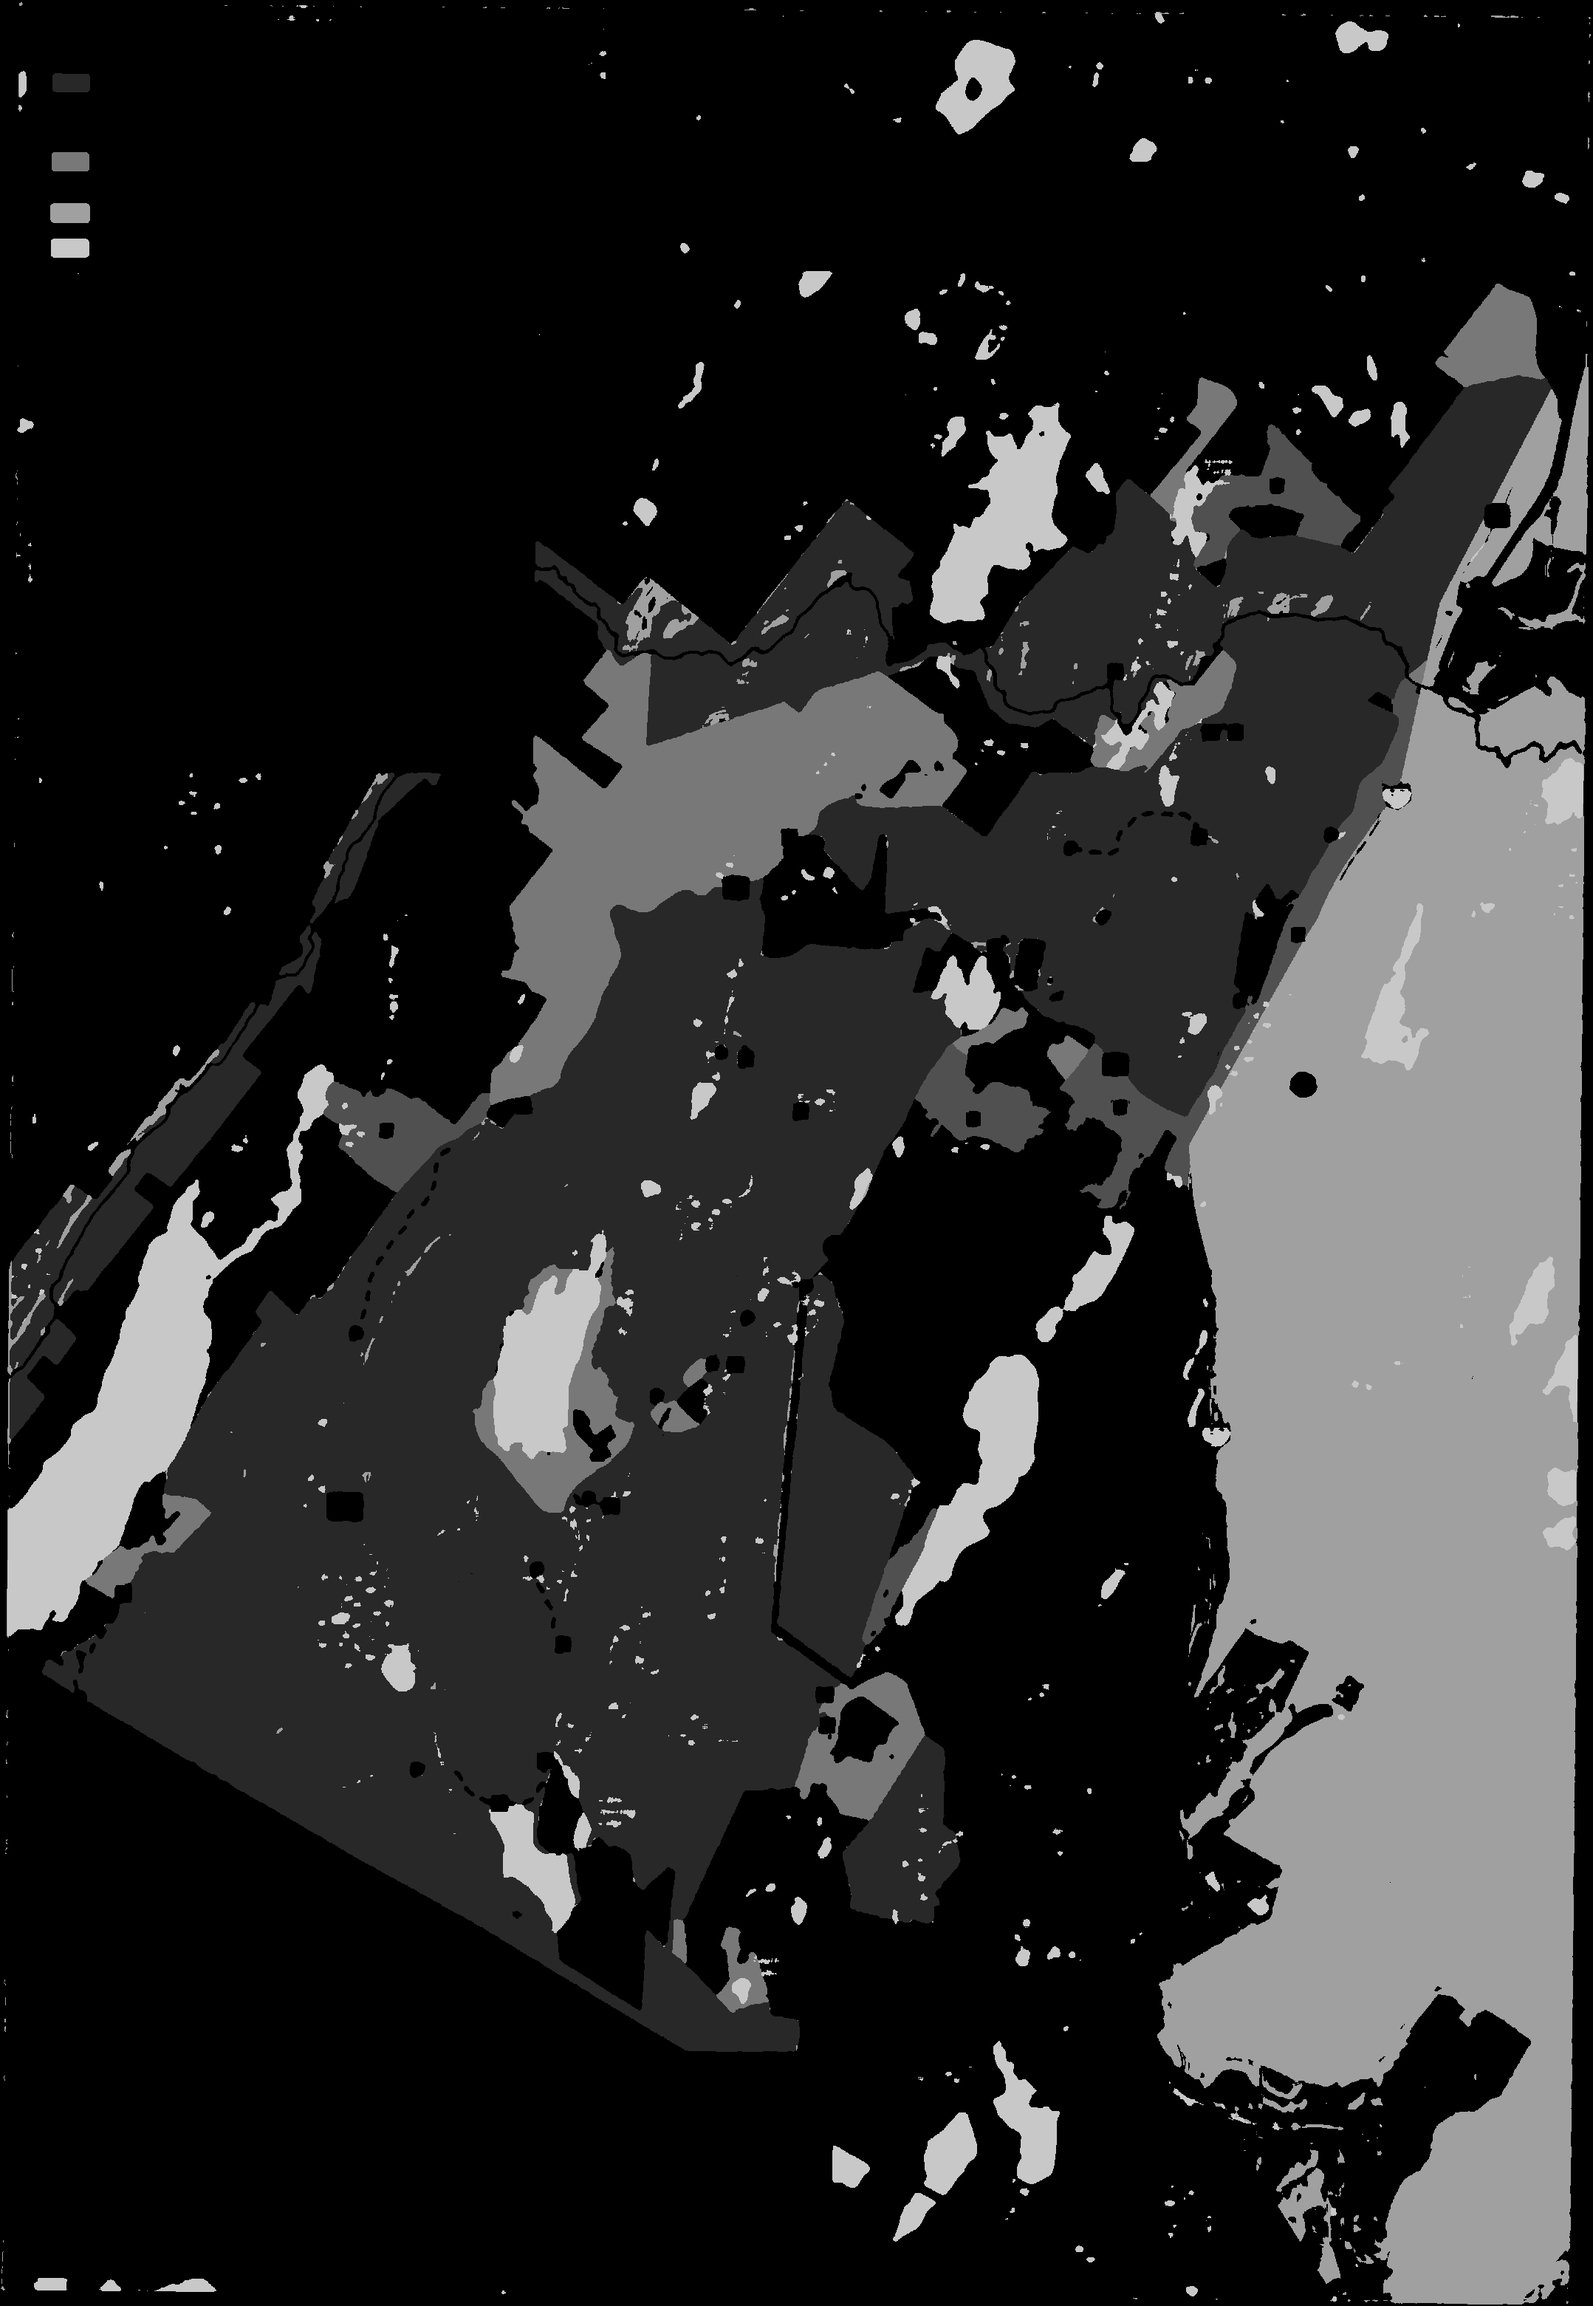
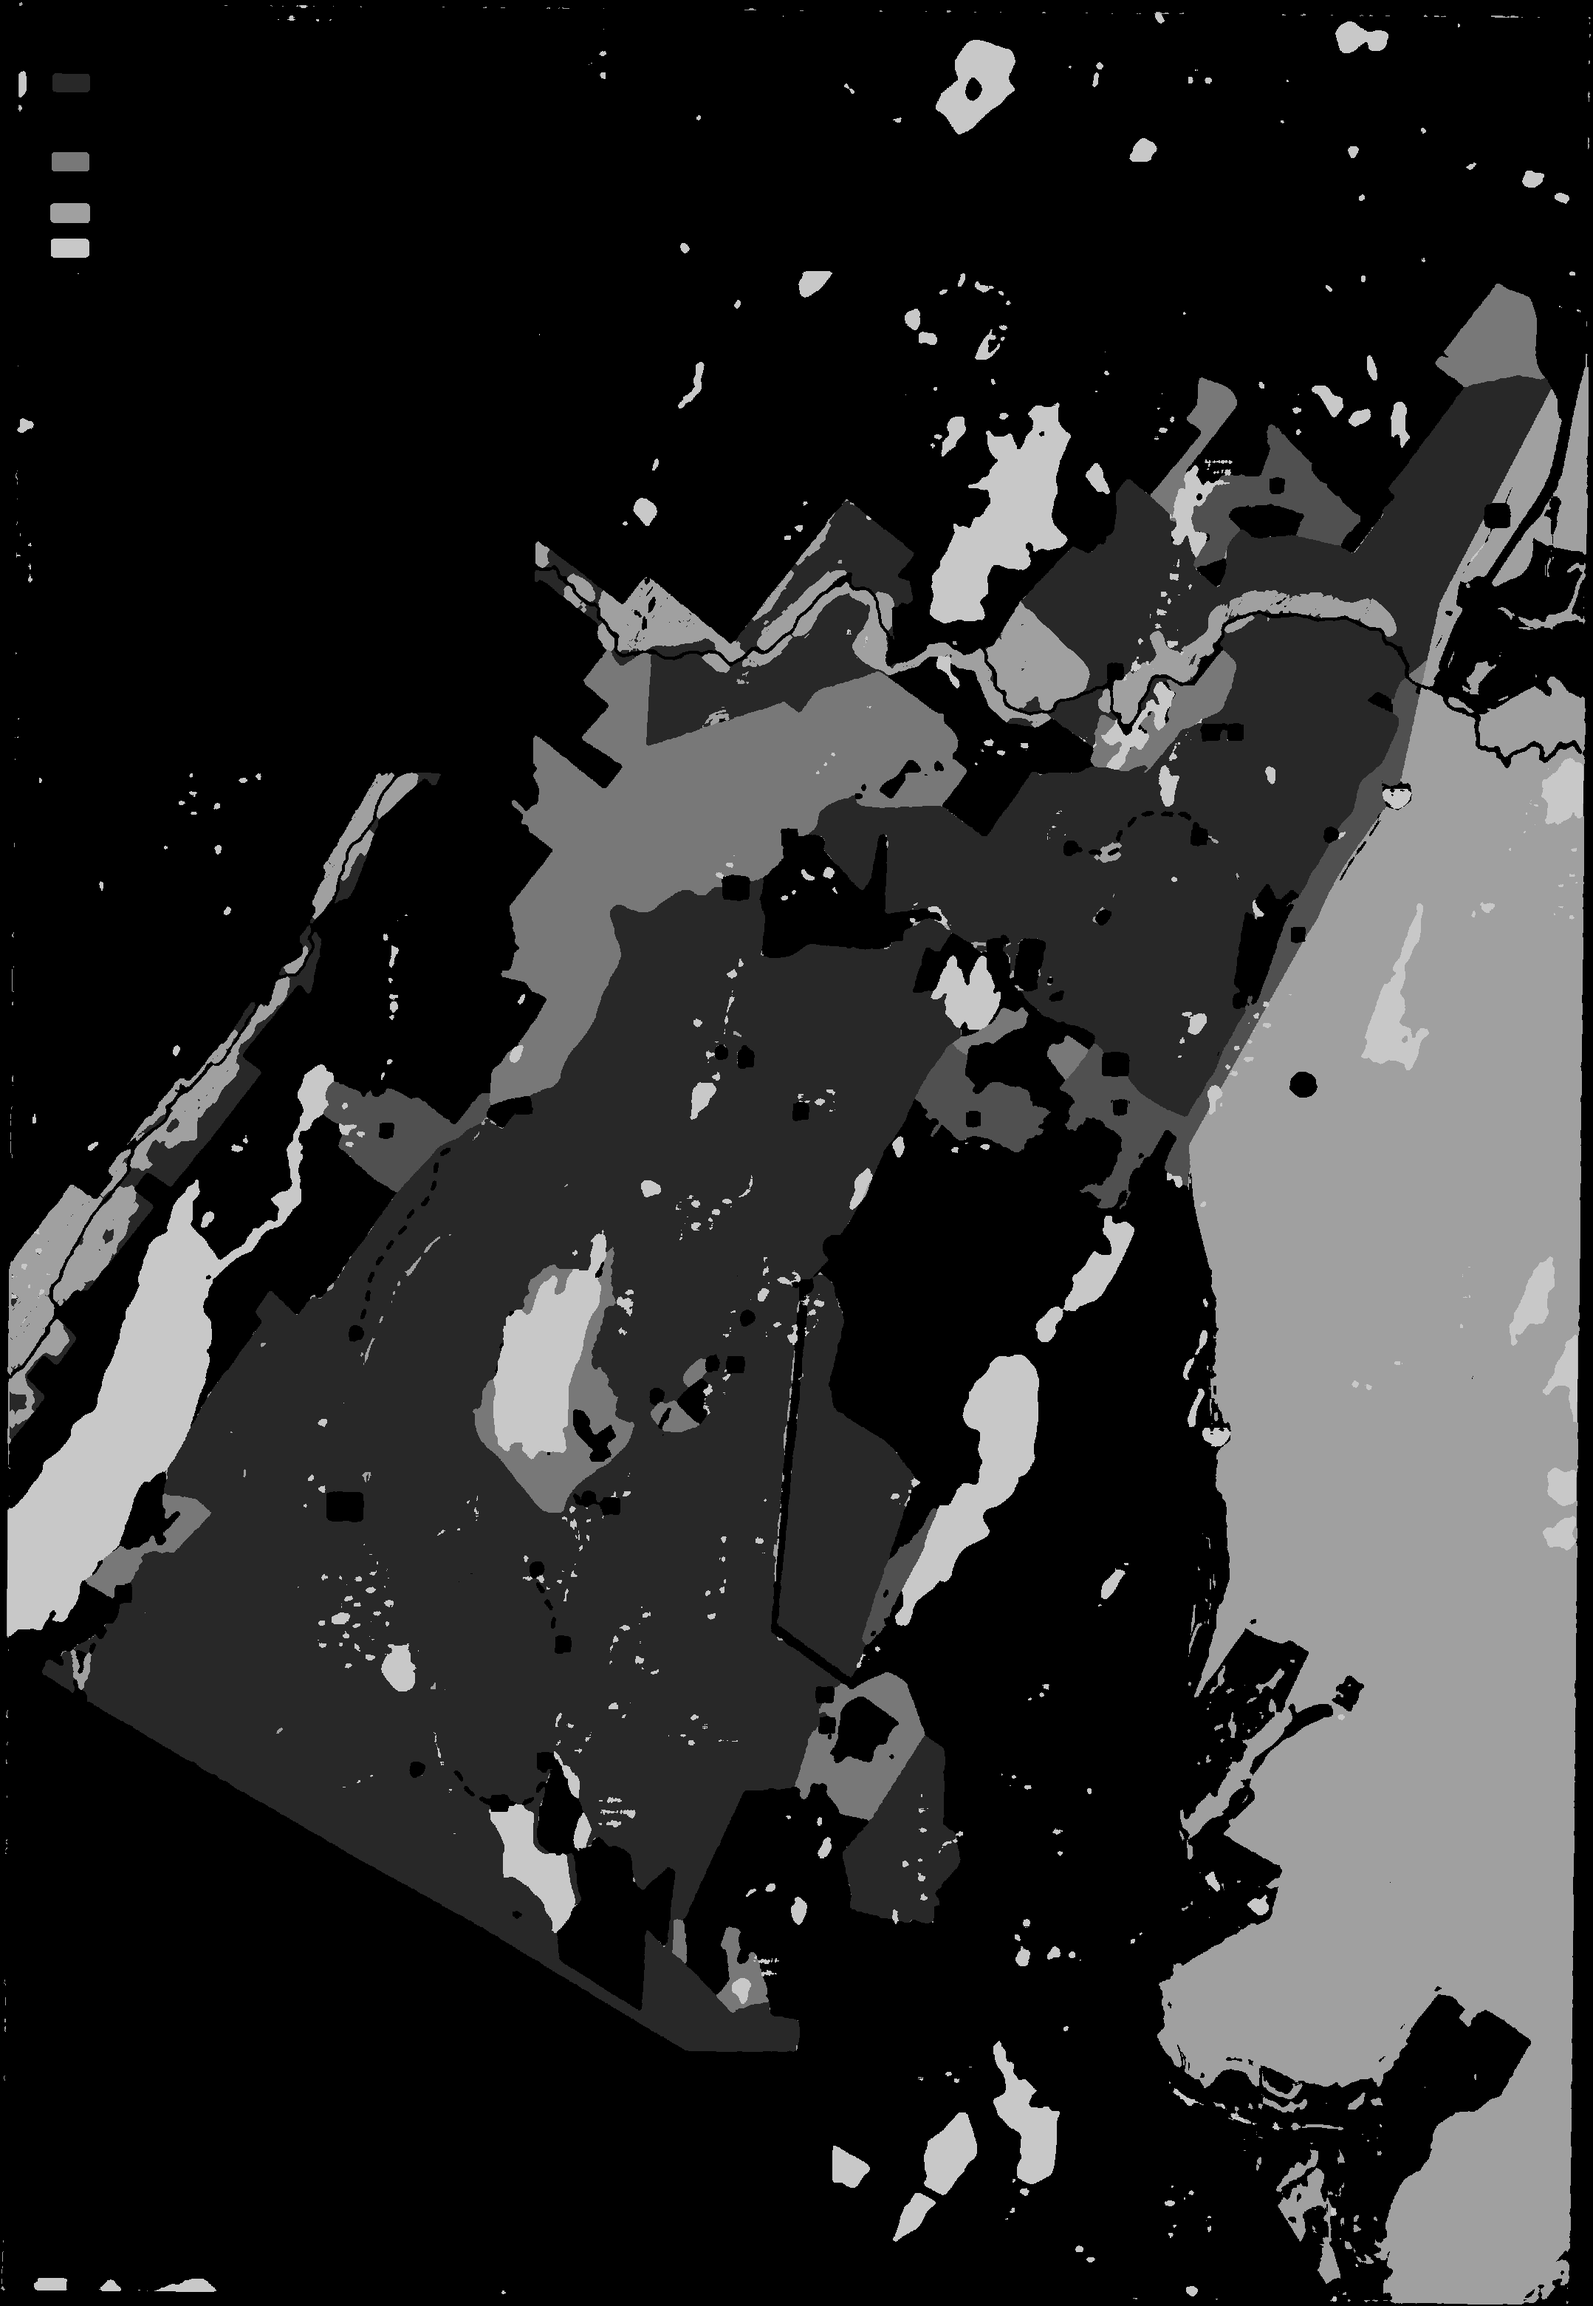
Add files via upload

diff --git a/index.html b/index.html
@@ -7552,8 +7552,8 @@ button:active:not(:disabled) *, a.tile:active *, .btn:active * { color: #fff !im
     function sfZones() {
       if (SFZ) return Promise.resolve(SFZ); if (SFZp) return SFZp;
       SFZp = (async () => {
-        const meta = await (await fetch('sf-zones.json')).json();
-        const img = await new Promise((res, rej) => { const im = new Image(); im.onload = () => res(im); im.onerror = rej; im.src = 'sf-zones.png'; });
+        const meta = await (await fetch('sf-zones.json?v=2')).json();
+        const img = await new Promise((res, rej) => { const im = new Image(); im.onload = () => res(im); im.onerror = rej; im.src = 'sf-zones.png?v=2'; });
         const c = document.createElement('canvas'); c.width = meta.W; c.height = meta.H; const g = c.getContext('2d', { willReadFrequently: true }); g.drawImage(img, 0, 0);
         const d = g.getImageData(0, 0, meta.W, meta.H).data, z = new Uint8Array(meta.W * meta.H); for (let i = 0; i < z.length; i++) z[i] = Math.round(d[i * 4] / 40);
         const bb = L.latLngBounds(meta.bounds), park = meta.parking.map(p => L.latLng(p[0], p[1])), trail = meta.trail.map(p => L.latLng(p[0], p[1]));
